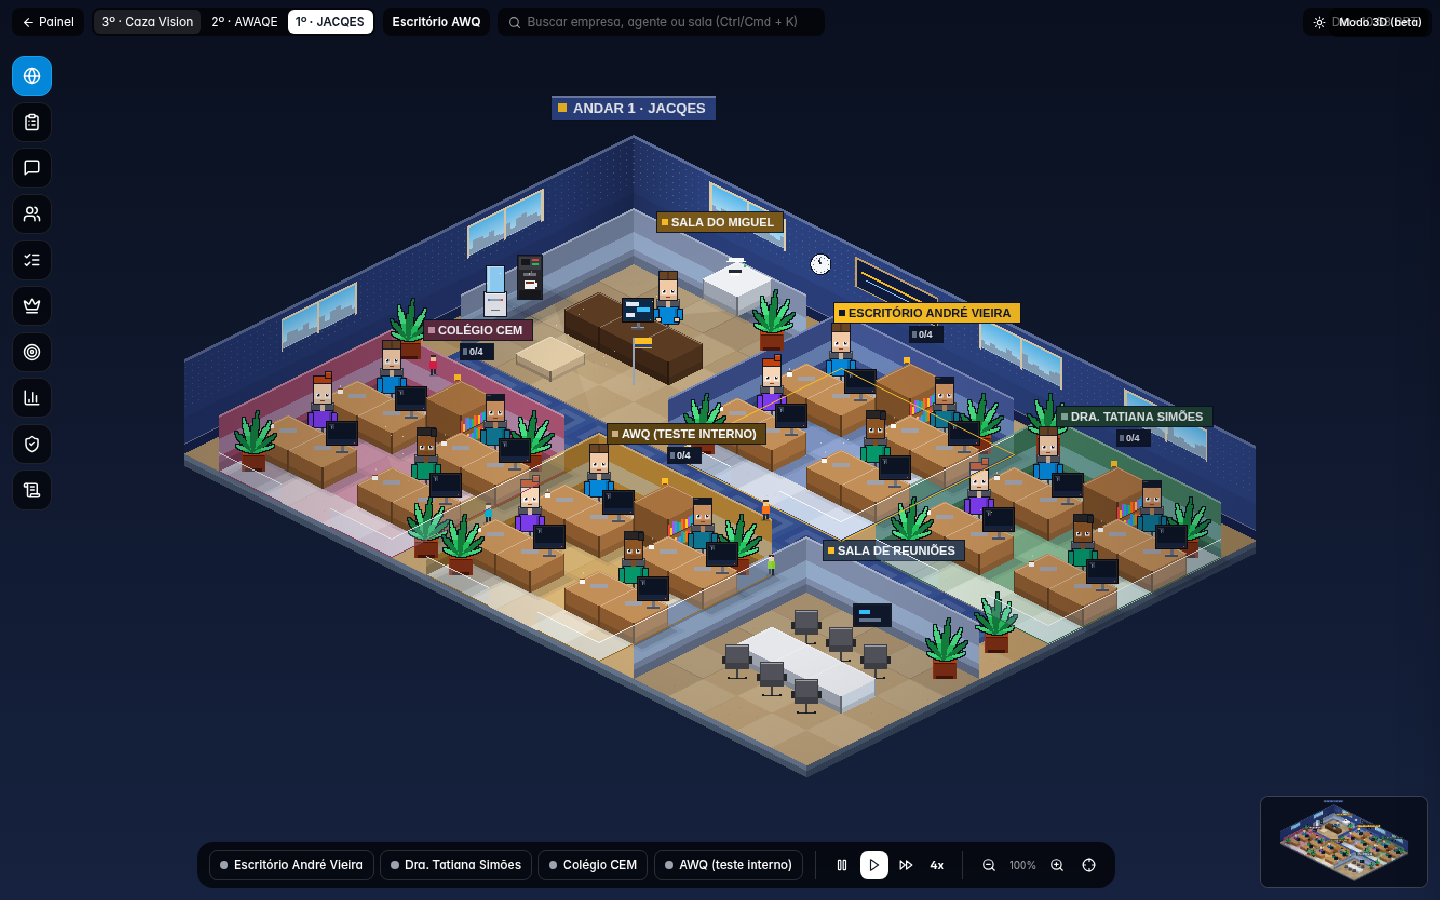
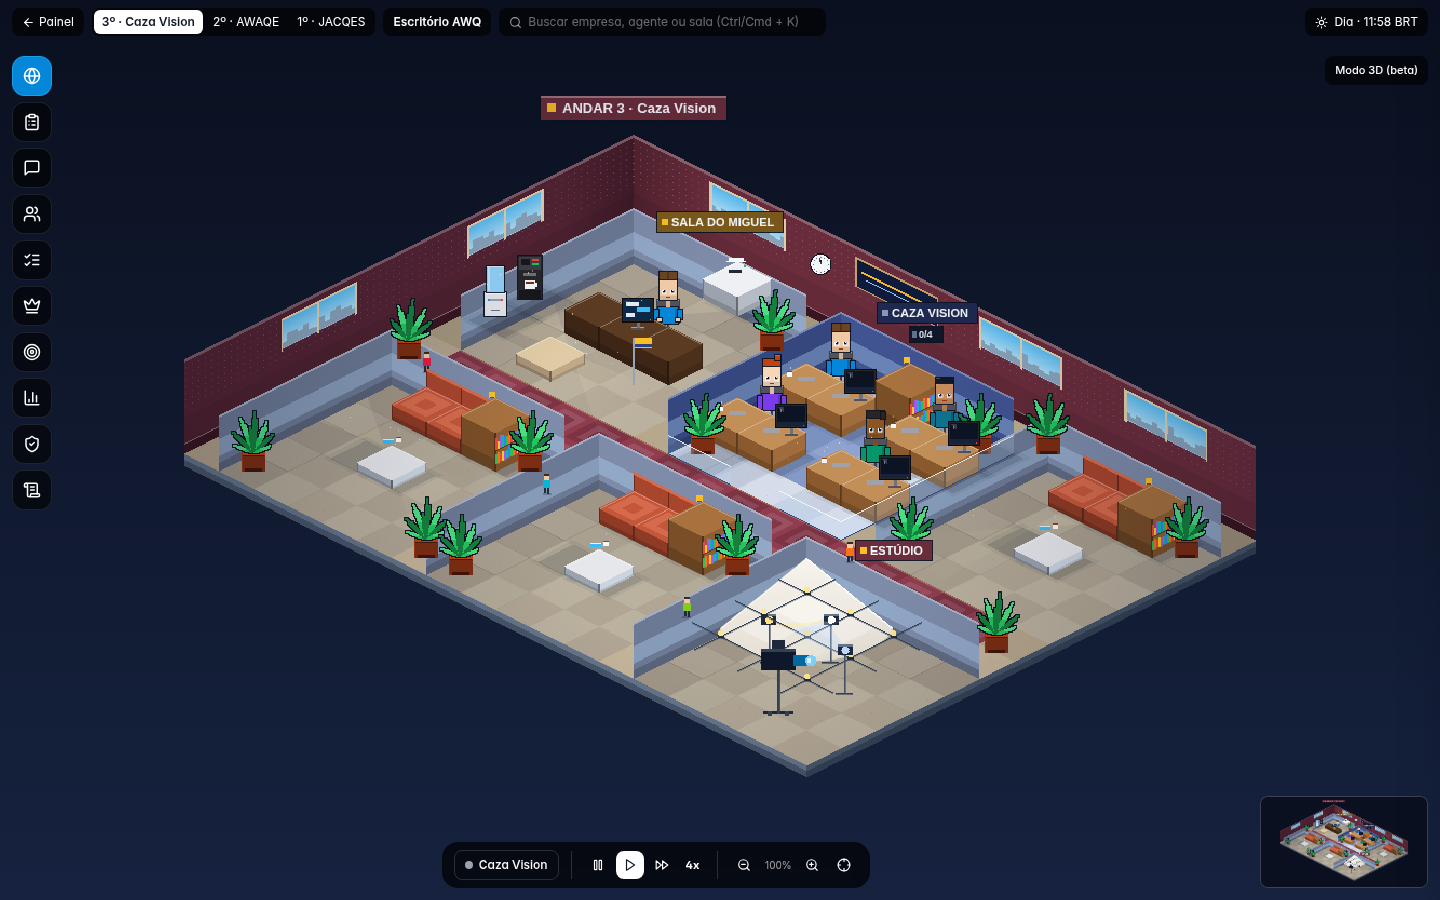
fix(office): o ciclorama não marca a emenda do piso
O lábio do arco fica horizontal e as normais apontam para dentro, então a curva e o chão são a mesma superfície. A frente e o andar 2D foram recapturados.

diff --git a/components/office/studio/StudioSet.tsx b/components/office/studio/StudioSet.tsx
@@ -78,6 +78,8 @@ function perfilDoCove(): [number, number][] {
     const ang = (i / passosArco) * (Math.PI / 2);
     perfil.push([RAIO * Math.cos(ang), RAIO * Math.sin(ang)]);
   }
+  // Lábio horizontal: a borda do piso só encosta em faces planas, sem degrau de normal.
+  perfil.push([0, RAIO + 0.45]);
   return perfil;
 }
 
@@ -104,7 +106,7 @@ function geometriaCiclorama(): THREE.BufferGeometry {
   for (let j = 0; j < base.length - 1; j++) {
     for (let i = 0; i < n - 1; i++) {
       const a = j * n + i;
-      idx.push(a, a + n, a + 1, a + 1, a + n, a + n + 1);
+      idx.push(a, a + 1, a + n, a + n, a + 1, a + n + 1);
     }
   }
   const borda = Array.from({ length: base.length }, (_, j) => j * n + (n - 1));
